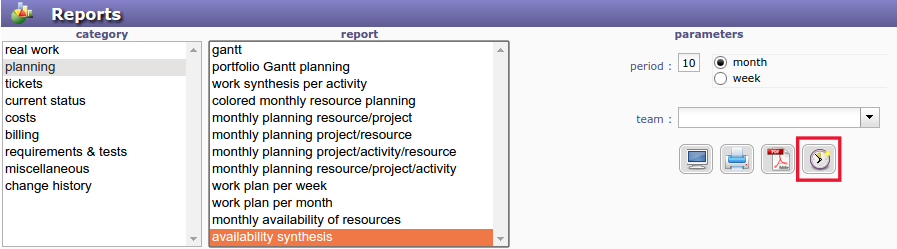
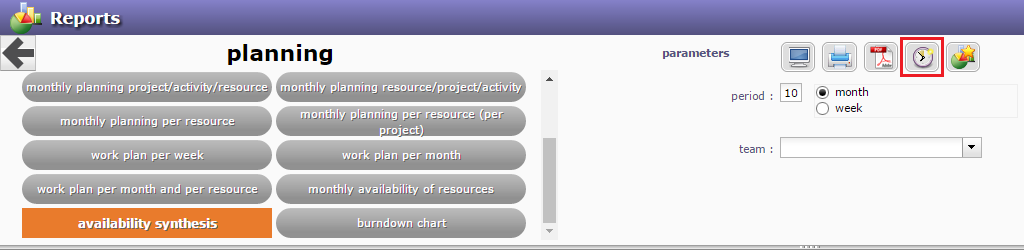
#2377 V6.1.0 GPA

diff --git a/projeqtor/docs/user/index.rst b/projeqtor/docs/user/index.rst
@@ -46,86 +46,43 @@ This section summarizes significant changes made in the user guide document for 
 
 To see complete list of changes made to software, visit the ProjeQtOr web site.
 
-Current version is V5.4. 
+Current version is V6.0.0 
 
-.. rubric:: Integration of tickets dashboard
+.. rubric:: Graphical user interface.
 
-* Tickets dashboard includes several small reports listing the number of tickets.
+* Reporting list displayed as menus
   
-  * See: :ref:`ticket-dashboard`
+  * See: :ref:`report`
 
-.. rubric:: Tickets management
+.. rubric:: Definition of working days.
 
-* Addition of the "resolution" of the ticket describing the solution provided (or not).
-* Addition of "solved" indicator to the ticket.
+* Possibility to define the working days in the company: work basis is no longer in a fixed mode worked from Monday to Friday
+
+  * See: :ref:`global-parameters`
+
+.. rubric:: Management of organizations.
+
+* Definition of the structure of the company in the frame of organizations (Departments, Units, Location, ...)
+
+  * See: :ref:`organization-concept`
+
+.. rubric:: Financial.
+
+* Management of call for tenders
+
+  * See: :ref:`organization-concept`
   
-  * See: :ref:`Ticket (Treatment section)<ticket>`
-  * See: :ref:`Ticket type (Behavior section) <behavior-section>`
+* Management of provider offers
 
-* Management of the list of resolutions.
+  * See: :ref:`organization-concept`
 
-  * See: :ref:`Resolution (list of values)<resolution>`
+.. rubric:: Gantt-Planning.
 
-* Automatic allocation of the responsible of the ticket when selecting the product or component.
+* Management of planning baselines.
+* Differentiation of activities without assigned work by color.
+* On the Gantt chart, a right click on a bar displays the detail of the work for this bar.
 
-  * See: :ref:`Product (Description section)<product>`
-  * See: :ref:`Component (Description section)<component>`
-  * See: :ref:`Ticket (Responsible of product)<ticket>`
-
-.. rubric:: Project management 
-
-* Indicator added "under construction" on the project.
-
-  * See: :ref:`project`
-
-.. rubric:: Financial
-
-* Addition of the management of suppliers.
-
-  * See: :ref:`Provider (list of values)<provider>`
-
-* Complement on the project expense object with the same level of information as a bill, to enable purchase management.
-
-  * See: :ref:`individual-expense`
-  * See: :ref:`project-expense`
-
-.. rubric:: Planning management 
-
-* Exporting planning  to PDF, identical to the version displayed (with all details and links between tasks).
-
-  * See: :ref:`Export planning to PDF from Gantt chart<gantt-planning>`
-
-.. rubric:: Interfaces
-
-* Ability to research projects in the selector: new list type without auto-complete to search into the name of projects.
-
-  * See: :ref:`Project selector (top bar)<top-bar>`
-
-* Ability to share a filter with other users.
-
-  * See: :ref:`Shared filters (Advanced filter)<advanced-filter>`
-
-* Ability to preview documents for image, text and PDF files.
-
-  * See: :ref:`Document viewer (Attachments section)<attachment-section>`
-  * See: :ref:`Document viewer (Document versions section)<document>`
-
-* Addition of the filter for selecting an element in lists of values using the autocomplete.
-
-.. rubric:: Other 
-
-* Allow to manage "private" actions to manage a personal "to-do list".
-
-  * See: :ref:`action`
-
-* Lock the definition of the number of hours per day once real work has been entered.
-
-  * See: :ref:`RWA`
-
-* Explanation about how to create a draft project planning.
-
-  * See: :ref:`Draft planning under planning section (Concept)<planning>`
-
+  * See: :ref:`gantt-planning`
 
 .. raw:: latex
 

diff --git a/projeqtor/docs/user/Gantt.rst b/projeqtor/docs/user/Gantt.rst
@@ -32,7 +32,7 @@ It is composed with two areas:
 
    * This screen offers many features that will be described in the next sections.
 
-.. figure:: /images/GUI/SCR_GanttPlanning.png
+.. figure:: /images/GUI/SCR_GanttPlanning2.png
    :alt: Gantt (Planning)
    :align: center
 
@@ -48,12 +48,22 @@ It is composed with two areas:
 
 .. rubric:: 4 - Buttons
 
-* Click on |storePlannedDates| to store planned dates. (See: :ref:`project-planning`)
+* Click on |iconEnableCalendar| to validate planning.
+* Click on |storePlannedDates| to save baseline of planning. (See: :ref:`project-planning`)
 * Click on |buttonIconPrint| to get a printable version of the Gantt chart.
 * Click on |buttonIconPdf| to export Gantt chart in PDF format. (See: :ref:`export-Gantt-PDF`) 
 * Click on |msProject| to export planning to MS-Project xml format.
 * Click on |buttonIconColumn| to define the columns of progress data that will be displayed. (See: :ref:`progress-data-view`)
 * Click on |createNewItem| to create a new item. (See: :ref:`project-planning`)
+
+.. rubric:: 5 - Show Baseline
+
+* Allows to display one baseline on top and one on bottom of the Gantt chart. 
+
+.. note::
+    
+   * Ability to display two baselines on the Gantt chart.
+   * Baseline can be saved with |storePlannedDates|.
 
 
 .. raw:: latex
@@ -70,7 +80,7 @@ The task list area is composed with:
 * :ref:`task-list` |one| 
 * :ref:`progress-data-view` |two|
 
-.. figure:: /images/GUI/ZONE_GanttTaskListProgressData.png
+.. figure:: /images/GUI/ZONE_GanttTaskListProgressData2.png
    :alt: Task list & progress data view
    :align: center
 
@@ -204,7 +214,7 @@ The Gantt chart view is a graphic representation of progress data.
 
 For each planning element, a Gantt bar is displayed at them right.
 
-.. figure:: /images/GUI/ZONE_GanttChartView.png
+.. figure:: /images/GUI/ZONE_GanttChartView2.png
    :alt: Gantt chart view
    :align: center
 
@@ -261,6 +271,9 @@ For each planning element, a Gantt bar is displayed at them right.
     * The line that cross a Gantt bar displays the percentage of actual progress.
     * The length of the line represents the percentage of completion, based on the percentage of actual progress against the length of Gantt bar.
 
+ .. note:: Lighter bar
+      
+      * Activities without assigned work are lighter bar, pale red or pale green as appropriate.
 
  .. note:: 
 
@@ -321,6 +334,17 @@ For each planning element, a Gantt bar is displayed at them right.
 .. rubric:: 8 - Current date
 
 * Yellow column indicates the current day, week, month or quarter, according to scale selected.
+* Red bar in yellow collumn display the current day and time.
+
+.. rubric:: 9 - Detail of the work
+
+* Right click on a bar to displays the detail of the work for this bar.
+  
+  .. image:: /images/GUI/Right_click_gantt.png
+
+ .. warning::
+ 
+  * You have to selected week or day scale to displays detail or a message will ask you to switch in smaller scale.
 
 .. raw:: latex
 

diff --git a/projeqtor/docs/user/Gui.rst b/projeqtor/docs/user/Gui.rst
@@ -632,7 +632,7 @@ Detail window
 
 .. rubric:: 1 - Item identifier
 
-* Identifies the item with the element name and the item id.
+* Identifies the item with the element type and the item id and name.
 * Each element is identified with a distinctive icon.
 
 .. rubric:: 2 - Creation information
@@ -661,9 +661,6 @@ Detail window
 * Click on |buttonIconRefresh| to refresh the display.      
 * Click on |buttonIconEmail| to send details of item by email. (See: :ref:`email-detail`)
 * Click on |buttonIconMultipleUpdate| to update several items in one operation. (See: :ref:`multiple-update`)
-* Click on |buttonIconShowChecklist| to show the checklist form. (See: :ref:`checklist`)
-* Click on |buttonIconShowHistory| to show history of changes. (See: :ref:`change-history`)
-
 
  .. note::
 
@@ -1417,14 +1414,18 @@ Just move the mouse over the red line to display, which indicator has been raise
 Themes
 ======
 
-Users can select colors Theme to display the interface. 
+Users can select Theme to display the interface. 
 
-The new theme is automatically applied when selected.
+.. rubric:: User parameter “Theme”
+* This parameter defines the theme to display.
+* The new theme is automatically applied when selected.
 
-.. note:: User parameter “Theme”
+.. figure:: /images/GUI/theme.png
 
-   * This parameter defines the theme to display.
+.. note:: Default theme
 
+  * By default your selected theme is "ProjeQtOr 'Flat Desgin' Blue".
+  * Screenshoots has been taken with "ProjeQtOr Standard" theme. 
 
 Multilingual
 ============
@@ -1446,6 +1447,7 @@ Keyboard functionality
 
 * :kbd:`Control-s` to save the changes. 
 * :kbd:`F1` to open the online user manual, to the page corresponding to the actual screen.
+* :kbd:`ESC` to exit full screen mode of CK Editor.
 
 .. rubric:: Numeric keypad
 

diff --git a/projeqtor/docs/user/Concept.rst b/projeqtor/docs/user/Concept.rst
@@ -94,6 +94,37 @@ A project can be billable or not.
 
     \newpage
 
+.. _organization-concept:
+
+Organization
+=======
+
+The notion of organization introduces a way to consolidate projects on a different hiererchic structure, apart from projects / sub-projects structure.
+
+.. rubric:: Definition of the structure of the company in the frame of organizations (Departments, Units, Location, ...)
+* The organization summarizes the data of the projects in progress for the organization
+
+.. figure:: /images/Organization.png
+   :align: center
+
+.. rubric:: Organization link
+* Each project can be linked to an organization
+
+.. note::
+
+  * Sub-projects are by default attached to the same organization as the parent, but can be integrated into another organization.
+  
+* Resources can be linked to an organization.
+
+.. note::
+
+  * Depending on the profile, you can limit the visibility of resources to people in the same organization or team as the current user.
+
+
+.. raw:: latex
+
+    \newpage
+
 .. _product-concept:
 
 Product

diff --git a/projeqtor/docs/user/Administration.rst b/projeqtor/docs/user/Administration.rst
@@ -112,6 +112,17 @@ Global parameters screen allows configuration of application settings.
 
 * Used to calculate delays based on “open hours”.
 
+.. rubric:: Section: Open days
+
+* Possibility to define the working days in the company.
+
+  * For each day of the week, you can choose between open days or off days.
+
+  .. note::
+  
+       * Taking into account the working days on calendars
+       * Taking into account the working days on the calculation of the planning and the display.
+       * Taking into account the working days on the display of real work allocation
 
 
 .. index:: ! Real work allocation (Unit for work)

diff --git a/projeqtor/docs/user/Report.rst b/projeqtor/docs/user/Report.rst
@@ -7,6 +7,8 @@
 
 .. index:: ! Report
 
+.. _report:
+
 Reports
 -------
 
@@ -17,7 +19,7 @@ A list of reports is available in different categories.
 #. Update the parameters to get the information you need.
 #. Click on a button to produce the report. |four|
 
-.. figure:: /images/GUI/SCR_Reports.png
+.. figure:: /images/GUI/Report_menu.PNG
    :alt: Reports screen
    :align: center
 

diff --git a/projeqtor/docs/user/RealWorkAllocation.rst b/projeqtor/docs/user/RealWorkAllocation.rst
@@ -229,6 +229,10 @@ Input fields
 
 * A global comment can be added on the weekly follow-up.
 
+.. note::
+  * Possibility to extend the main comment area.
+  * Can enter a comment on each line of real work allocation screen.
+
 .. rubric:: 2 - Real work entry
 
 * Area allows to entry real work.

diff --git a/projeqtor/docs/user/Glossary.rst b/projeqtor/docs/user/Glossary.rst
@@ -4,9 +4,8 @@ Glossary
 --------
 
 .. glossary::
-  
+   
    Closed
-
      * Flag to indicate that item is archived.
      * Item will not appear in lists any more, unless “show closed” is checked.
 
